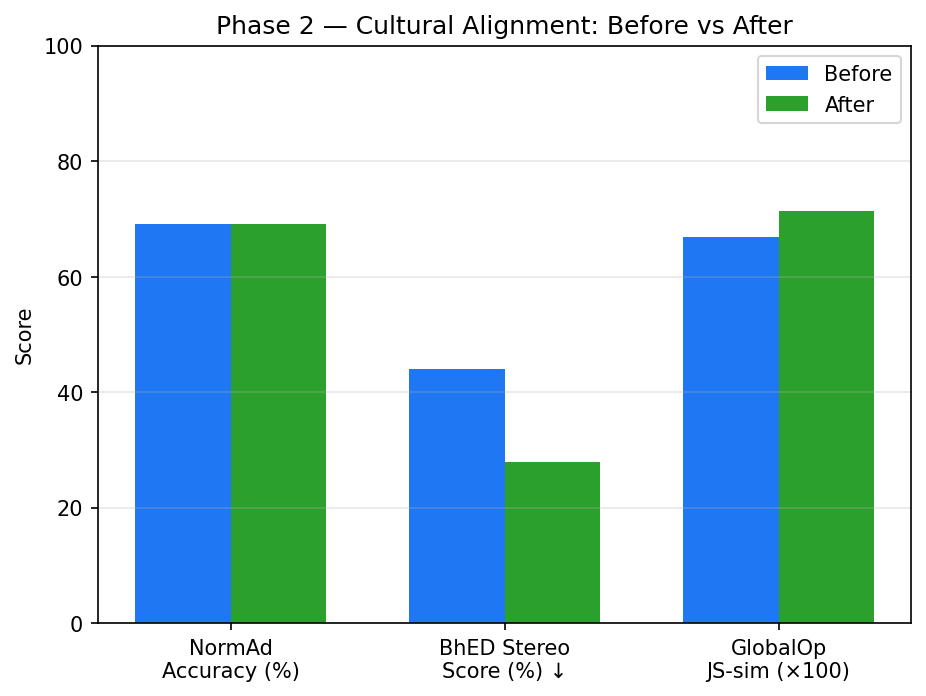
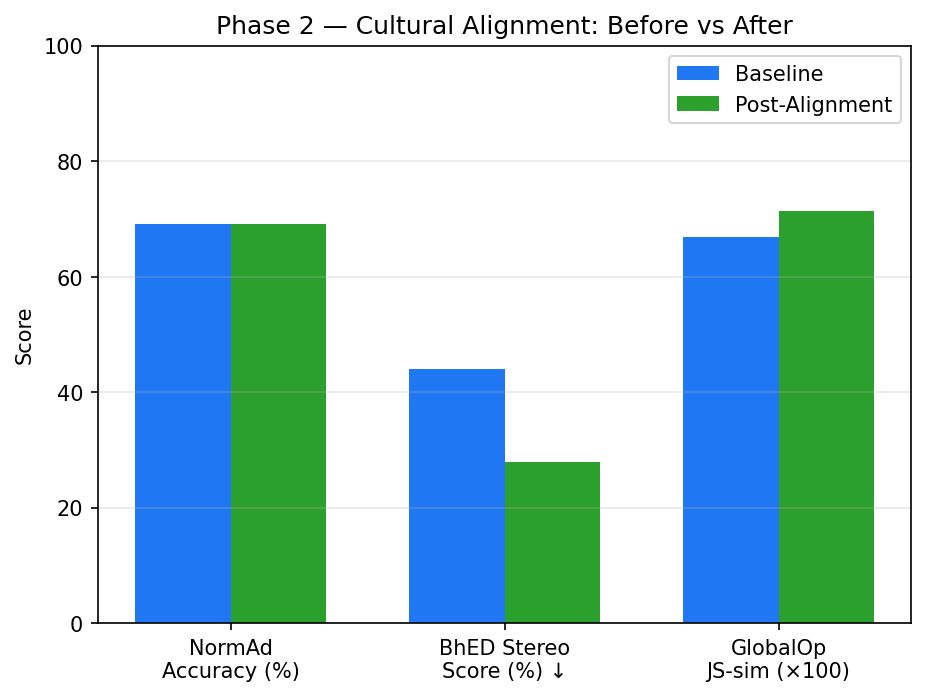
Rename Before→Baseline, After→Post-Alignment in graphs

Changed region(s): [[0.7257, 0.0905, 0.9676, 0.181]]

diff --git a/make_graphs.py b/make_graphs.py
@@ -31,18 +31,18 @@ x = np.arange(len(domains))
 
 # before-only
 fig, ax = plt.subplots(figsize=(10, 5))
-ax.bar(x, p1_before, color=BLUE, label="Before")
+ax.bar(x, p1_before, color=BLUE, label="Baseline")
 ax.set_xticks(x); ax.set_xticklabels(domains, fontsize=9)
 ax.set_ylabel("Accuracy (%)"); ax.set_ylim(0, 100)
 ax.set_title("Phase 1 — MILU Hindi: Baseline per Domain")
-ax.axhline(sum(p1_before)/len(p1_before), color=BLUE, linestyle="--", alpha=0.6, label=f"Avg {sum(p1_before)/len(p1_before):.1f}%")
+ax.axhline(sum(p1_before)/len(p1_before), color=BLUE, linestyle="--", alpha=0.6, label=f"Baseline Avg {sum(p1_before)/len(p1_before):.1f}%")
 ax.legend(); ax.grid(axis="y", alpha=0.3)
 save(fig, "phase1_before.png")
 
 # before + after
 fig, ax = plt.subplots(figsize=(10, 5))
-ax.bar(x - BAR_W/2, p1_before, BAR_W, color=BLUE, label="Before")
-ax.bar(x + BAR_W/2, p1_after,  BAR_W, color=GREEN, label="After")
+ax.bar(x - BAR_W/2, p1_before, BAR_W, color=BLUE, label="Baseline")
+ax.bar(x + BAR_W/2, p1_after,  BAR_W, color=GREEN, label="Post-Alignment")
 ax.set_xticks(x); ax.set_xticklabels(domains, fontsize=9)
 ax.set_ylabel("Accuracy (%)"); ax.set_ylim(0, 100)
 ax.set_title("Phase 1 — MILU Hindi: Before vs After per Domain")
@@ -56,7 +56,7 @@ p2_after  = [69.2, 27.9, 71.46]
 x2 = np.arange(len(metrics))
 
 fig, ax = plt.subplots(figsize=(7, 5))
-ax.bar(x2, p2_before, color=BLUE, label="Before")
+ax.bar(x2, p2_before, color=BLUE, label="Baseline")
 ax.set_xticks(x2); ax.set_xticklabels(metrics, fontsize=10)
 ax.set_ylabel("Score"); ax.set_ylim(0, 100)
 ax.set_title("Phase 2 — Cultural Alignment: Baseline")
@@ -64,8 +64,8 @@ ax.legend(); ax.grid(axis="y", alpha=0.3)
 save(fig, "phase2_before.png")
 
 fig, ax = plt.subplots(figsize=(7, 5))
-ax.bar(x2 - BAR_W/2, p2_before, BAR_W, color=BLUE, label="Before")
-ax.bar(x2 + BAR_W/2, p2_after,  BAR_W, color=GREEN, label="After")
+ax.bar(x2 - BAR_W/2, p2_before, BAR_W, color=BLUE, label="Baseline")
+ax.bar(x2 + BAR_W/2, p2_after,  BAR_W, color=GREEN, label="Post-Alignment")
 ax.set_xticks(x2); ax.set_xticklabels(metrics, fontsize=10)
 ax.set_ylabel("Score"); ax.set_ylim(0, 100)
 ax.set_title("Phase 2 — Cultural Alignment: Before vs After")
@@ -79,18 +79,18 @@ p3_after  = [80.1, 86.9, 78.0, 78.2, 78.0, 75.9, 76.2]
 x3 = np.arange(len(langs))
 
 fig, ax = plt.subplots(figsize=(9, 5))
-ax.bar(x3, p3_before, color=BLUE, label="Before")
+ax.bar(x3, p3_before, color=BLUE, label="Baseline")
 ax.set_xticks(x3); ax.set_xticklabels(langs, fontsize=10)
 ax.set_ylabel("Accuracy (%)"); ax.set_ylim(0, 100)
 ax.set_title("Phase 3 — HHH Safety Alignment: Baseline (7 Languages)")
 avg_b = sum(p3_before)/len(p3_before)
-ax.axhline(avg_b, color=BLUE, linestyle="--", alpha=0.6, label=f"Avg {avg_b:.1f}%")
+ax.axhline(avg_b, color=BLUE, linestyle="--", alpha=0.6, label=f"Baseline Avg {avg_b:.1f}%")
 ax.legend(); ax.grid(axis="y", alpha=0.3)
 save(fig, "phase3_before.png")
 
 fig, ax = plt.subplots(figsize=(9, 5))
-ax.bar(x3 - BAR_W/2, p3_before, BAR_W, color=BLUE, label="Before")
-ax.bar(x3 + BAR_W/2, p3_after,  BAR_W, color=GREEN, label="After")
+ax.bar(x3 - BAR_W/2, p3_before, BAR_W, color=BLUE, label="Baseline")
+ax.bar(x3 + BAR_W/2, p3_after,  BAR_W, color=GREEN, label="Post-Alignment")
 ax.set_xticks(x3); ax.set_xticklabels(langs, fontsize=10)
 ax.set_ylabel("Accuracy (%)"); ax.set_ylim(0, 100)
 ax.set_title("Phase 3 — HHH Safety Alignment: Before vs After (7 Languages)")
